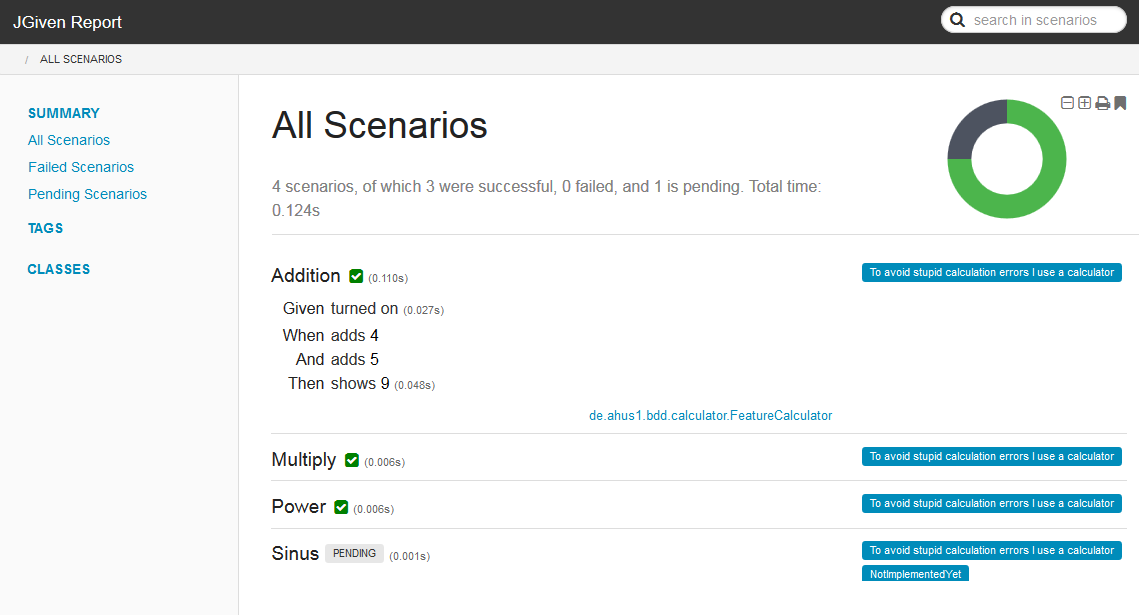
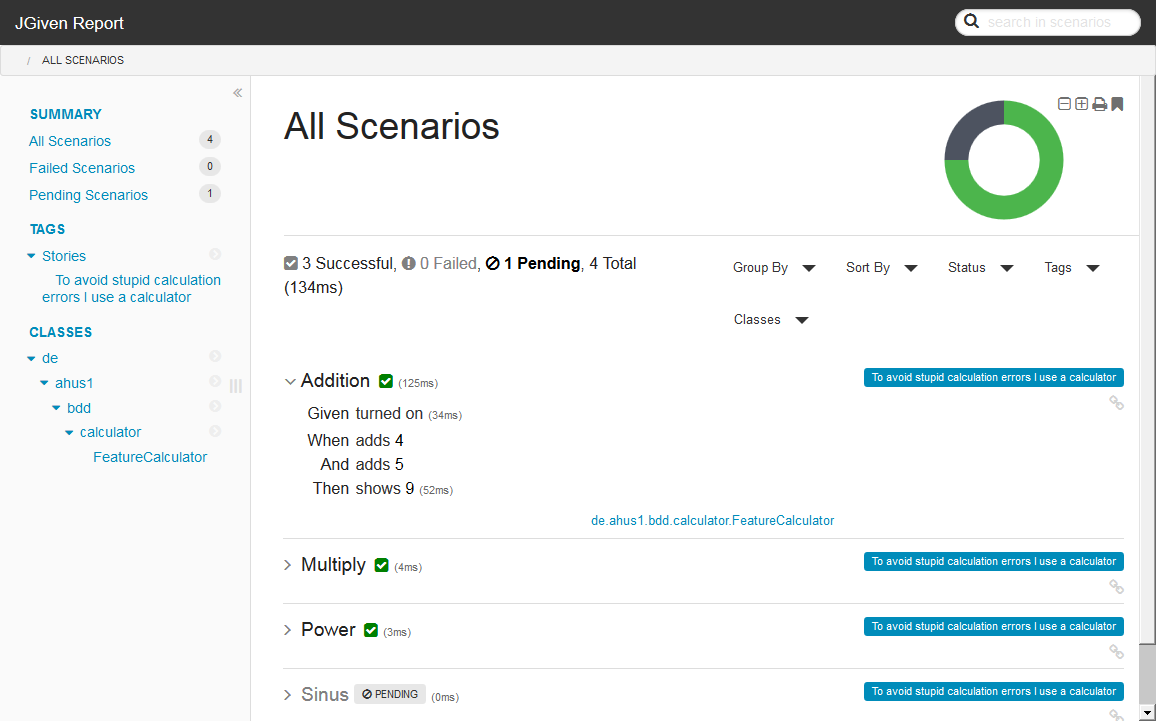
updated to jgiven 0.8.0; adding asciidoctor sample

diff --git a/jgiven-junit/src/test/java/de/ahus1/bdd/calculator/FeatureCalculator.java b/jgiven-junit/src/test/java/de/ahus1/bdd/calculator/FeatureCalculator.java
@@ -1,12 +1,11 @@
 package de.ahus1.bdd.calculator;
 
-import com.tngtech.jgiven.annotation.NotImplementedYet;
+import com.tngtech.jgiven.annotation.Pending;
 import com.tngtech.jgiven.junit.ScenarioTest;
 import de.ahus1.bdd.calculator.bdd.GivenCalculatorStage;
 import de.ahus1.bdd.calculator.bdd.ThenCalculatorOutcome;
 import de.ahus1.bdd.calculator.bdd.WhenCalculatorAction;
 import de.ahus1.bdd.calculator.common.Story;
-import jdk.nashorn.internal.ir.annotations.Ignore;
 import org.junit.Test;
 
 @Story("To avoid stupid calculation errors I use a calculator")
@@ -35,7 +34,7 @@ public class FeatureCalculator extends ScenarioTest<GivenCalculatorStage<?>,
     }
 
     @Test
-    @NotImplementedYet("do this later")
+    @Pending("do this later")
     public void sinus() {
     }
 

diff --git a/jgiven-junit/src/test/java/de/ahus1/bdd/calculator/common/Stories.java b/jgiven-junit/src/test/java/de/ahus1/bdd/calculator/common/Stories.java
@@ -5,9 +5,6 @@ import com.tngtech.jgiven.annotation.IsTag;
 import java.lang.annotation.Retention;
 import java.lang.annotation.RetentionPolicy;
 
-@IsTag(descriptionGenerator = StoryDescriptionGenerator.class)
+@IsTag(name = "Stories")
 @Retention( RetentionPolicy.RUNTIME )
-@Stories
-public @interface Story {
-    String[] value();
-}
+public @interface Stories { }

diff --git a/jgiven-junit/src/test/java/de/ahus1/bdd/calculator/bdd/ThenCalculatorOutcome.java b/jgiven-junit/src/test/java/de/ahus1/bdd/calculator/bdd/ThenCalculatorOutcome.java
@@ -5,9 +5,6 @@ import com.tngtech.jgiven.annotation.ExpectedScenarioState;
 import de.ahus1.bdd.calculator.Calculator;
 import org.assertj.core.api.Assertions;
 
-/**
- * Created by schwarta on 21.03.2015.
- */
 public class ThenCalculatorOutcome<SELF extends ThenCalculatorOutcome<?>> extends Stage<SELF> {
 
     @ExpectedScenarioState

diff --git a/jgiven-junit/src/test/java/de/ahus1/bdd/calculator/bdd/WhenCalculatorAction.java b/jgiven-junit/src/test/java/de/ahus1/bdd/calculator/bdd/WhenCalculatorAction.java
@@ -6,9 +6,6 @@ import de.ahus1.bdd.calculator.Calculator;
 
 import java.util.List;
 
-/**
- * Created by schwarta on 21.03.2015.
- */
 public class WhenCalculatorAction<SELF extends WhenCalculatorAction<?>> extends Stage<SELF> {
 
     @ExpectedScenarioState
